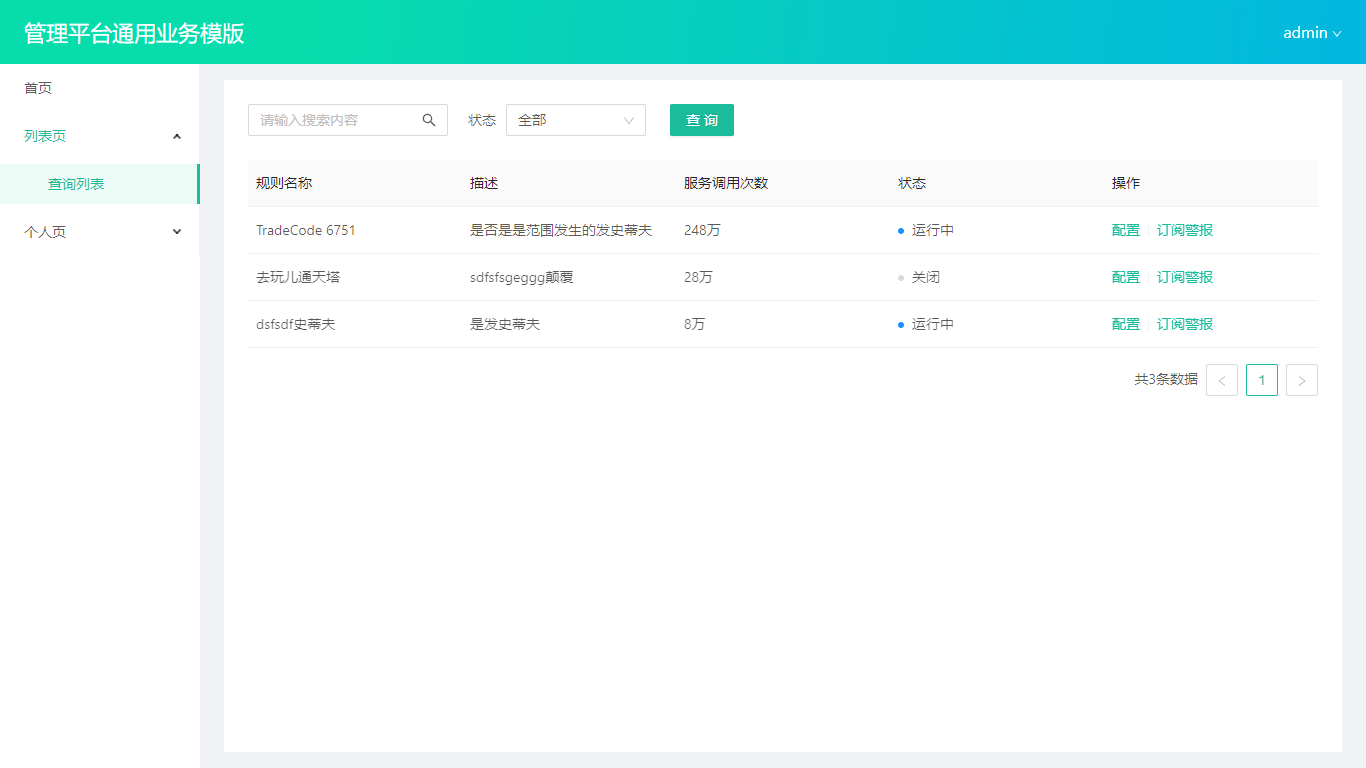
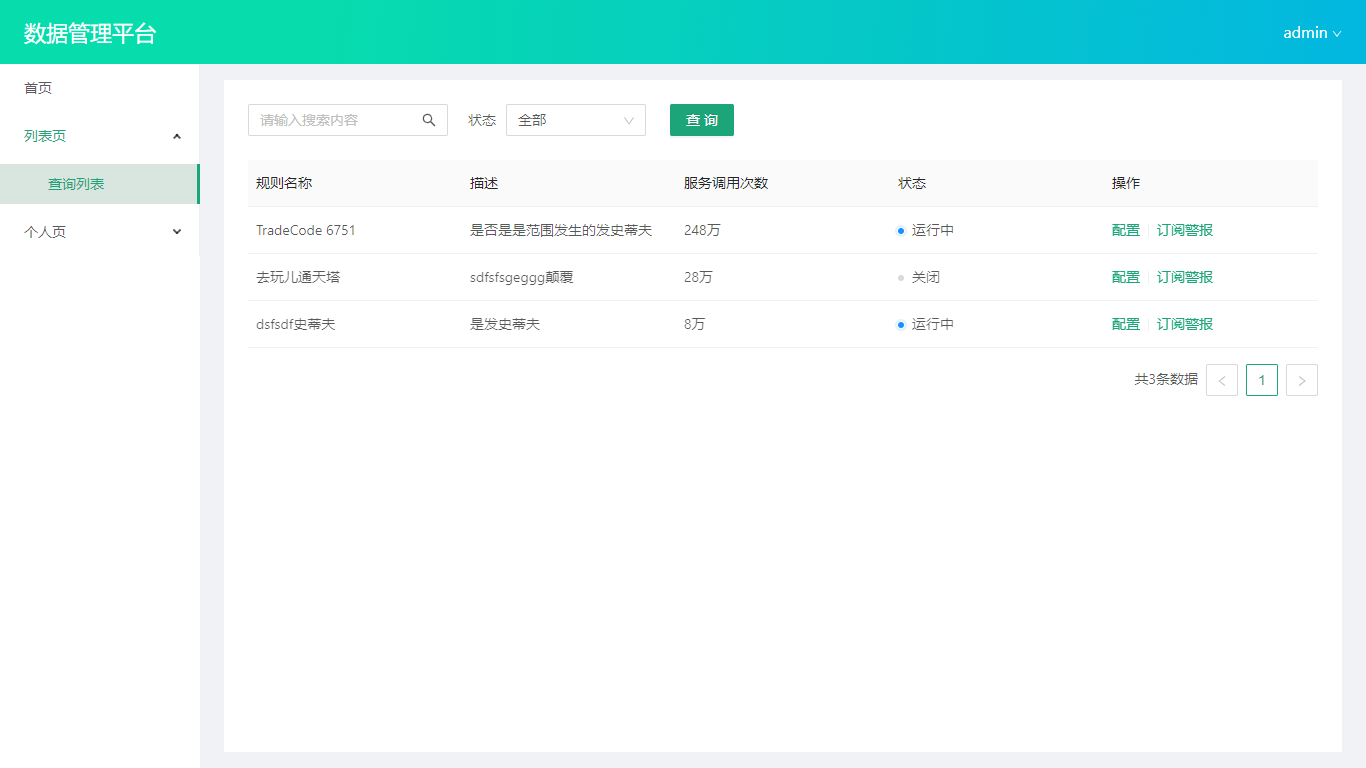
:art: titile修改

diff --git a/src/pages/login/components/loginForm/index.tsx b/src/pages/login/components/loginForm/index.tsx
@@ -64,7 +64,7 @@ const LoginForm: FC<LoginFormProps & ParentProps> = ({
         rules={[
           {
             required: true,
-            message: '请输入用户名!',
+            message: '请输入用户名',
           },
         ]}
       >
@@ -77,7 +77,7 @@ const LoginForm: FC<LoginFormProps & ParentProps> = ({
       <Form.Item
         name="password"
         rules={[
-          { required: true, message: '请输入密码!' },
+          { required: true, message: '请输入密码' },
           { min: 6, message: '密码最少6位数' },
           { max: 18, message: '密码最多18位数' },
           {

diff --git a/src/pages/login/index.tsx b/src/pages/login/index.tsx
@@ -40,7 +40,7 @@ const Login: FC<LoginLayoutProps> = ({ dispatch }) => {
                 <span
                   style={{ fontSize: 22, fontWeight: 600, color: '#1abc9c' }}
                 >
-                  前端通用业务模板
+                  数据管理平台
                 </span>
               </Col>
             </Row>

diff --git a/src/layouts/baseLayout/header/index.tsx b/src/layouts/baseLayout/header/index.tsx
@@ -4,7 +4,7 @@ import UserSetting from './userSetting';
 export default function() {
   return (
     <>
-      <div style={{ fontSize: 22, color: '#fff' }}>管理平台通用业务模版</div>
+      <div style={{ fontSize: 22, color: '#fff' }}>数据管理平台</div>
       <UserSetting />
     </>
   );
